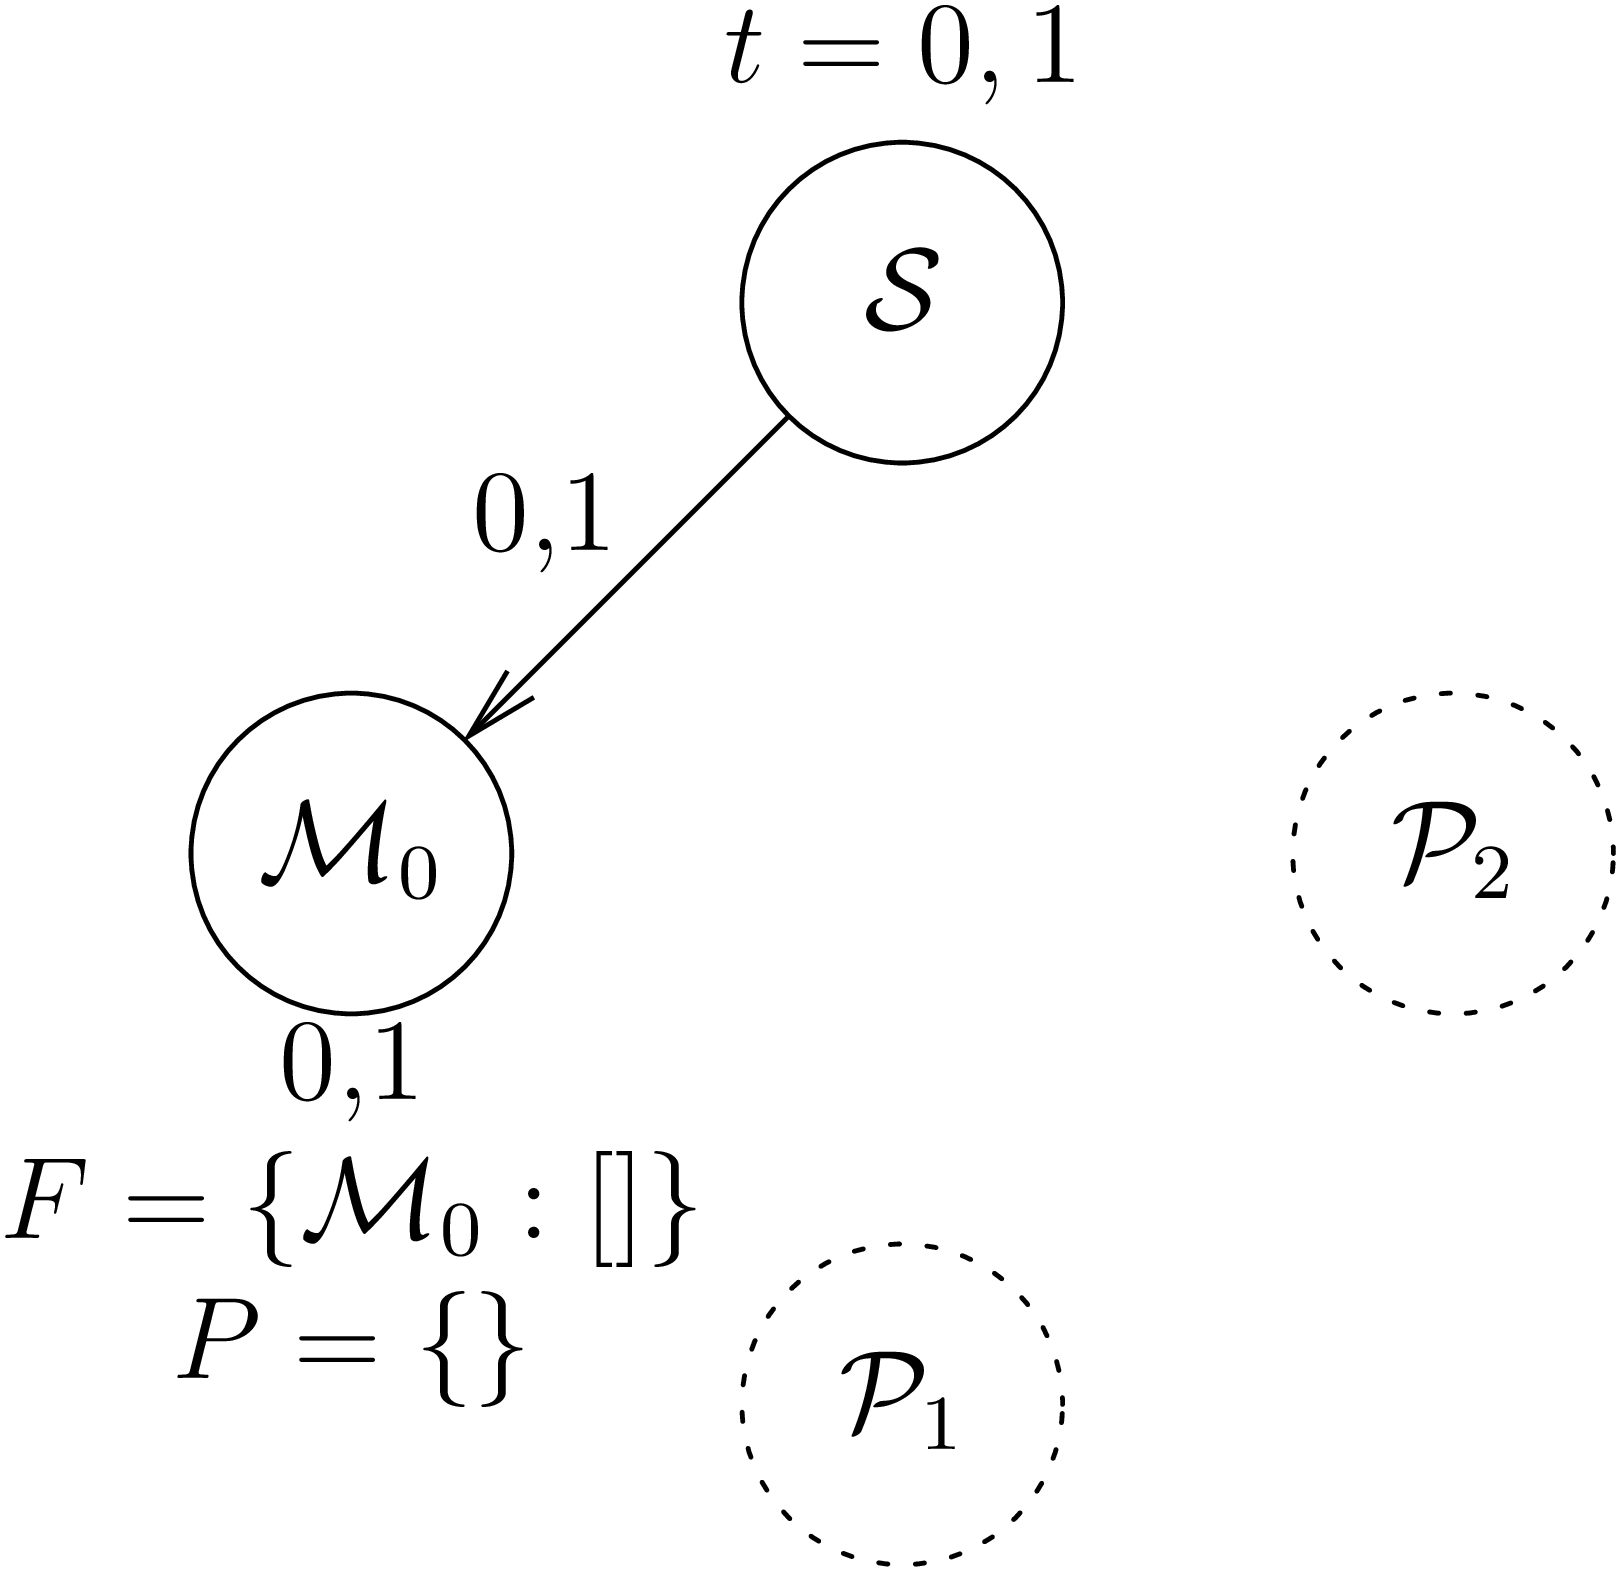
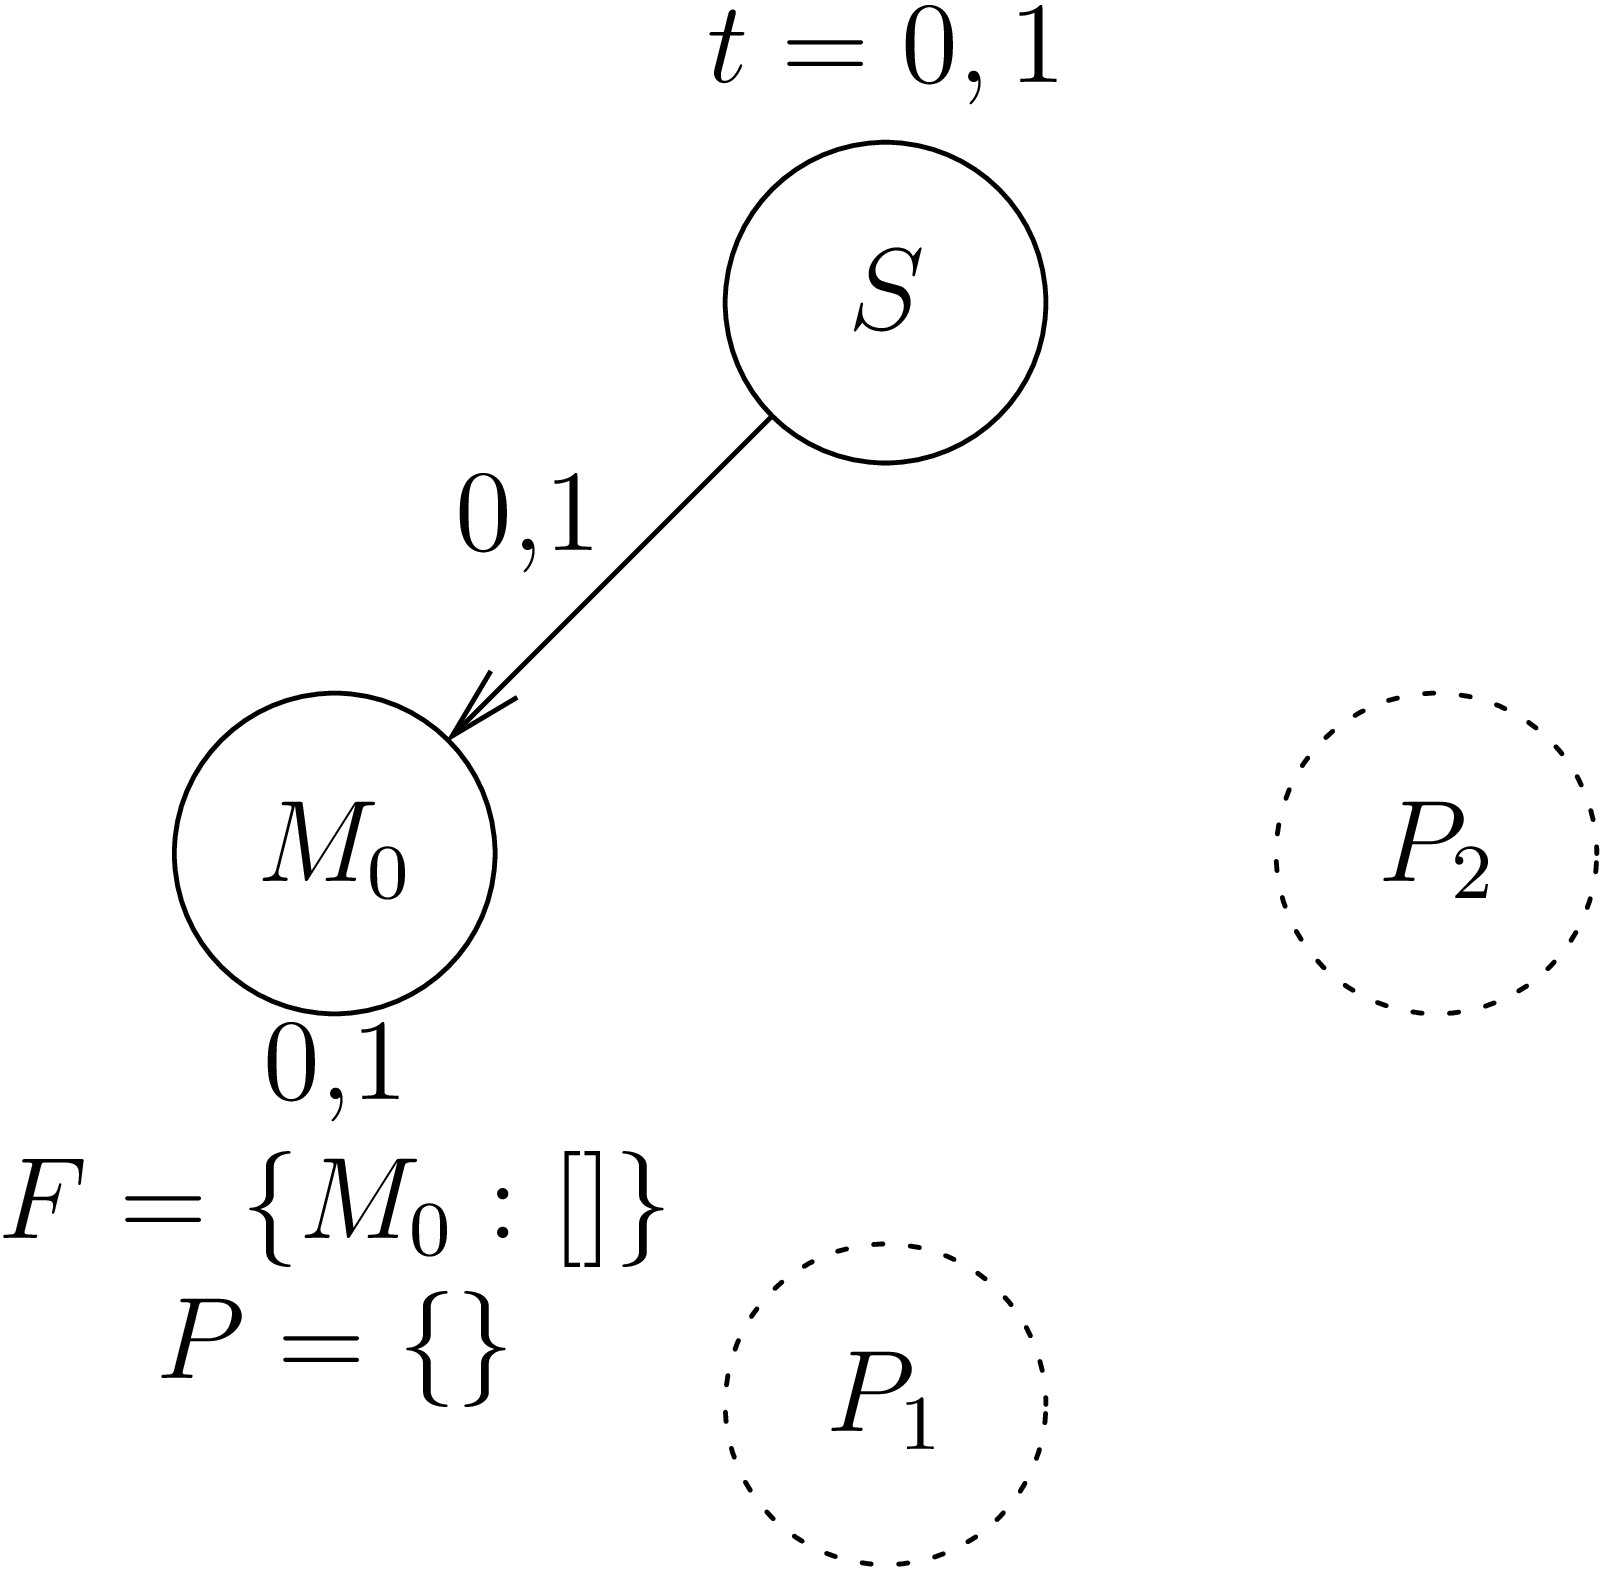
.

diff --git a/index.html b/index.html
@@ -71,14 +71,14 @@ href="#x1-60002.3" id="QQ2-1-9">Buﬀering chunks</a></span>
 <br />    <span class="subsectionToc" >2.4 <a 
 href="#x1-70002.4" id="QQ2-1-10">Chunk ﬂooding</a></span>
 <br />    <span class="subsectionToc" >2.5 <a 
-href="#x1-80002.5" id="QQ2-1-12">Leaving a team</a></span>
+href="#x1-80002.5" id="QQ2-1-13">Leaving a team</a></span>
 <br />    <span class="subsectionToc" >2.6 <a 
-href="#x1-90002.6" id="QQ2-1-13">Free-riding control at splitters</a></span>
+href="#x1-90002.6" id="QQ2-1-14">Free-riding control at splitters</a></span>
                                                                   
 
                                                                   
 <br />   <span class="sectionToc" >3 <a 
-href="#x1-100003" id="QQ2-1-14">FCS (Free-riding Control Set)</a></span>
+href="#x1-100003" id="QQ2-1-15">FCS (Free-riding Control Set)</a></span>
    </div>
 <!--l. 27--><p class="noindent" >
 </p>
@@ -829,46 +829,246 @@ scheduler selects a diﬀerent neighbor for each new received chunk.
                                                                   
 
                                                                   
- <div style="text-align:center;"> <img width=400 src="graphics/team_0.png" /> </div> 
+ <div style="text-align:center;"> <img width=250 src="graphics/team_0.png" /> </div> 
 <br />  <div class="caption" 
 ><span class="id">Figure 3:    </span><span  
 class="content">A    team    has    been    created    with    a    single    monitor
-<!--l. 58--><math 
+<!--l. 61--><math 
  xmlns="http://www.w3.org/1998/Math/MathML"  
 display="inline" ><msub><mrow 
 ><mi 
 >M</mi></mrow><mrow 
 ><mn>0</mn></mrow></msub 
 ></math>
-(<!--l. 58--><math 
+(<!--l. 61--><math 
  xmlns="http://www.w3.org/1998/Math/MathML"  
 display="inline" ><mrow ><mo 
 class="MathClass-open">[</mo><mrow><mi mathvariant="monospace">hello</mi></mrow><mo 
 class="MathClass-close">]</mo></mrow></math>
-messages       are       not       shown.       Chunks       with       numbers       0
-and       1       have       been       transmitted       from       the       splitter
-<!--l. 58--><math 
+messages   are   not   shown).   Chunks   with   numbers   0   and   1   (the   time
+<!--l. 61--><math 
+ xmlns="http://www.w3.org/1998/Math/MathML"  
+display="inline" ><mi 
+>t</mi></math>
+is   measured   in   chunks-time)   have   been   transmitted   from   the   splitter
+<!--l. 61--><math 
  xmlns="http://www.w3.org/1998/Math/MathML"  
 display="inline" ><mi 
 >S</mi></math>
-to <!--l. 58--><math 
+to <!--l. 61--><math 
  xmlns="http://www.w3.org/1998/Math/MathML"  
 display="inline" ><msub><mrow 
 ><mi 
 >M</mi></mrow><mrow 
 ><mn>0</mn></mrow></msub 
 ></math>.
-</span></div><!--tex4ht:label?: x1-70013 -->
+<!--l. 61--><math 
+ xmlns="http://www.w3.org/1998/Math/MathML"  
+display="inline" ><mi 
+>F</mi></math>
+and <!--l. 61--><math 
+ xmlns="http://www.w3.org/1998/Math/MathML"  
+display="inline" ><mi 
+>P</mi></math>
+represents the <!--l. 61--><math 
+ xmlns="http://www.w3.org/1998/Math/MathML"  
+display="inline" ><mstyle 
+class="text"><mtext  >forward</mtext></mstyle><mrow ><mo 
+class="MathClass-open">[</mo><mrow></mrow><mo 
+class="MathClass-close">]</mo></mrow></math>
+and the <!--l. 61--><math 
+ xmlns="http://www.w3.org/1998/Math/MathML"  
+display="inline" ><mstyle 
+class="text"><mtext  >pending</mtext></mstyle><mrow ><mo 
+class="MathClass-open">[</mo><mrow></mrow><mo 
+class="MathClass-close">]</mo></mrow></math>
+structures, respectively. The chunks stored in the buﬀer is shown under the
+entity.</span></div><!--tex4ht:label?: x1-70013 -->
                                                                   
 
                                                                   
    </div><hr class="endfloat" />
-<!--l. 61--><p class="indent" >   An example of the ﬂooding with congestion control algorithm has been show in
+                                                                  
+
+                                                                  
+<!--l. 65--><p class="indent" >   <a 
+ id="x1-70024"></a></p><hr class="float" /><div class="float" 
+>
+                                                                  
+
+                                                                  
+ <div style="text-align:center;"> <img width=250 src="graphics/team_1.png" /> </div> 
+<br /> <div class="caption" 
+><span class="id">Figure 4: </span><span  
+class="content">Peer <!--l. 76--><math 
+ xmlns="http://www.w3.org/1998/Math/MathML"  
+display="inline" ><msub><mrow 
+><mi 
+>P</mi></mrow><mrow 
+><mn>1</mn></mrow></msub 
+></math>
+joins the team (the <!--l. 76--><math 
+ xmlns="http://www.w3.org/1998/Math/MathML"  
+display="inline" ><mrow ><mo 
+class="MathClass-open">[</mo><mrow><mi mathvariant="monospace">hello</mi></mrow><mo 
+class="MathClass-close">]</mo></mrow></math>’s
+are not shown). In <!--l. 76--><math 
+ xmlns="http://www.w3.org/1998/Math/MathML"  
+display="inline" ><msub><mrow 
+><mi 
+>M</mi></mrow><mrow 
+><mn>0</mn></mrow></msub 
+></math>,
+<!--l. 76--><math 
+ xmlns="http://www.w3.org/1998/Math/MathML"  
+display="inline" ><mi 
+>F</mi> <mo 
+class="MathClass-rel">=</mo> <mrow ><mo 
+class="MathClass-open">{</mo><mrow><msub><mrow 
+><mi 
+>M</mi></mrow><mrow 
+><mn>0</mn></mrow></msub 
+> <mo 
+class="MathClass-punc">:</mo> <mrow ><mo 
+class="MathClass-open">[</mo><mrow><msub><mrow 
+><mi 
+>P</mi></mrow><mrow 
+><mn>1</mn></mrow></msub 
+></mrow><mo 
+class="MathClass-close">]</mo></mrow></mrow><mo 
+class="MathClass-close">}</mo></mrow></math>
+because when <!--l. 76--><math 
+ xmlns="http://www.w3.org/1998/Math/MathML"  
+display="inline" ><msub><mrow 
+><mi 
+>M</mi></mrow><mrow 
+><mn>0</mn></mrow></msub 
+></math>
+receives the <!--l. 76--><math 
+ xmlns="http://www.w3.org/1998/Math/MathML"  
+display="inline" ><mrow ><mo 
+class="MathClass-open">[</mo><mrow><mi mathvariant="monospace">hello</mi></mrow><mo 
+class="MathClass-close">]</mo></mrow></math>
+from <!--l. 76--><math 
+ xmlns="http://www.w3.org/1998/Math/MathML"  
+display="inline" ><msub><mrow 
+><mi 
+>P</mi></mrow><mrow 
+><mn>1</mn></mrow></msub 
+></math>,
+<!--l. 76--><math 
+ xmlns="http://www.w3.org/1998/Math/MathML"  
+display="inline" ><msub><mrow 
+><mi 
+>M</mi></mrow><mrow 
+><mn>0</mn></mrow></msub 
+></math>
+is      the      origin      peer      for      all      chunks      received      from
+<!--l. 76--><math 
+ xmlns="http://www.w3.org/1998/Math/MathML"  
+display="inline" ><mi 
+>S</mi></math>
+and <!--l. 76--><math 
+ xmlns="http://www.w3.org/1998/Math/MathML"  
+display="inline" ><msub><mrow 
+><mi 
+>P</mi></mrow><mrow 
+><mn>1</mn></mrow></msub 
+></math>
+is   its   neighbor.   After   that,   when   the   chunk   number   2   arrives   to
+<!--l. 76--><math 
+ xmlns="http://www.w3.org/1998/Math/MathML"  
+display="inline" ><msub><mrow 
+><mi 
+>M</mi></mrow><mrow 
+><mn>0</mn></mrow></msub 
+></math>
+from <!--l. 76--><math 
+ xmlns="http://www.w3.org/1998/Math/MathML"  
+display="inline" ><mi 
+>S</mi></math>,
+an entry <!--l. 76--><math 
+ xmlns="http://www.w3.org/1998/Math/MathML"  
+display="inline" ><msub><mrow 
+><mi 
+>P</mi></mrow><mrow 
+><mn>1</mn></mrow></msub 
+> <mo 
+class="MathClass-punc">:</mo> <mn>2</mn></math>
+is created in <!--l. 76--><math 
+ xmlns="http://www.w3.org/1998/Math/MathML"  
+display="inline" ><mi 
+>P</mi><mrow ><mo 
+class="MathClass-open">[</mo><mrow></mrow><mo 
+class="MathClass-close">]</mo></mrow></math>
+for  that  chunk,  and  this  entry  is  deleted  when  the  chunk  2  is  sent  to
+<!--l. 76--><math 
+ xmlns="http://www.w3.org/1998/Math/MathML"  
+display="inline" ><msub><mrow 
+><mi 
+>P</mi></mrow><mrow 
+><mn>1</mn></mrow></msub 
+></math>.
+When <!--l. 76--><math 
+ xmlns="http://www.w3.org/1998/Math/MathML"  
+display="inline" ><msub><mrow 
+><mi 
+>P</mi></mrow><mrow 
+><mn>1</mn></mrow></msub 
+></math>
+receives the chunk 2, <!--l. 76--><math 
+ xmlns="http://www.w3.org/1998/Math/MathML"  
+display="inline" ><msub><mrow 
+><mi 
+>P</mi></mrow><mrow 
+><mn>1</mn></mrow></msub 
+></math>
+inserts the entry <!--l. 76--><math 
+ xmlns="http://www.w3.org/1998/Math/MathML"  
+display="inline" ><msub><mrow 
+><mi 
+>P</mi></mrow><mrow 
+><mn>1</mn></mrow></msub 
+> <mo 
+class="MathClass-punc">:</mo> <msub><mrow 
+><mi 
+>M</mi></mrow><mrow 
+><mn>0</mn></mrow></msub 
+></math>
+in its forwarding table because <!--l. 76--><math 
+ xmlns="http://www.w3.org/1998/Math/MathML"  
+display="inline" ><msub><mrow 
+><mi 
+>P</mi></mrow><mrow 
+><mn>1</mn></mrow></msub 
+></math>
+considers to <!--l. 76--><math 
+ xmlns="http://www.w3.org/1998/Math/MathML"  
+display="inline" ><msub><mrow 
+><mi 
+>M</mi></mrow><mrow 
+><mn>0</mn></mrow></msub 
+></math>
+as a neighbor. Notice that <!--l. 76--><math 
+ xmlns="http://www.w3.org/1998/Math/MathML"  
+display="inline" ><msub><mrow 
+><mi 
+>P</mi></mrow><mrow 
+><mn>1</mn></mrow></msub 
+></math>
+does not receive chunks 0 and 1 because these chunks belong to a old section
+of the stream.</span></div><!--tex4ht:label?: x1-70024 -->
+                                                                  
+
+                                                                  
+   </div><hr class="endfloat" />
+<!--l. 79--><p class="indent" >   An example of the ﬂooding with congestion control algorithm has been show in
 the Figs. <a 
 href="#x1-70013">3<!--tex4ht:ref: fig:team_0 --></a>, ..., <span 
-class="ecbx-1000">??</span>.
-</p><!--l. 107--><p class="indent" >   ............
-</p><!--l. 109--><p class="indent" >   in DBS is very simple: if a new chunk is received, peers forward (using the
+class="ecbx-1000">??</span>. Notice that in this example, the debts have not been considered,
+and that all messages are received successfully.
+</p><!--l. 127--><p class="indent" >   ............
+</p><!--l. 129--><p class="indent" >   in DBS is very simple: if a new chunk is received, peers forward (using the
 ﬂooding with prunning algorithm described in Sec <span 
 class="ecbx-1000">??</span>) each received chunk to the
 next peer of their list of peers (following a round-robin pattern).

diff --git a/DBS/chunk_flooding.tex b/DBS/chunk_flooding.tex
@@ -52,14 +52,34 @@ peer select $P_x$. The scheduler selects a different neighbor for each
 new received chunk.
 
 \begin{figure*}
-  \fig{400}{4cm}{team_0} \caption{A team has been created with a
-  single monitor $M_0$ ($[\mathtt{hello}]$ messages are not
-  shown. Chunks with numbers 0 and 1 have been transmitted from the
-  splitter $S$ to $M_0$. \label{fig:team_0}}
+  \fig{250}{2.5cm}{team_0} \caption{A team has been created with a
+    single monitor $M_0$ ($[\mathtt{hello}]$ messages are not
+    shown). Chunks with numbers 0 and 1 (the time $t$ is measured in
+    chunks-time) have been transmitted from the splitter $S$ to
+    $M_0$. $F$ and $P$ represents the $\text{forward}[]$ and the
+    $\text{pending}[]$ structures, respectively. The chunks stored in
+    the buffer is shown under the entity.\label{fig:team_0}}
+\end{figure*}
+
+\begin{figure*}
+  \fig{250}{2.5cm}{team_1} \caption{Peer $P_1$ joins the team (the
+    $[\mathtt{hello}]$'s are not shown). In $M_0$, $F=\{M_0:[P_1]\}$
+    because when $M_0$ receives the $[\mathtt{hello}]$ from $P_1$,
+    $M_0$ is the origin peer for all chunks received from $S$ and
+    $P_1$ is its neighbor. After that, when the chunk number 2 arrives
+    to $M_0$ from $S$, an entry $P_1:2$ is created in $P\{\}$ for that
+    chunk, and this entry is deleted when the chunk 2 is sent to
+    $P_1$. When $P_1$ receives the chunk 2, $P_1$ inserts the entry
+    $P_1:M_0$ in its forwarding table because $P_1$ considers to $M_0$
+    as a neighbor. Notice that $P_1$ does not receive chunks 0 and 1
+    because these chunks belong to a old (already played) section of
+    the stream.\label{fig:team_1}}
 \end{figure*}
 
 An example of the flooding with congestion control algorithm has been
-show in the Figs.~\ref{fig:team_0}, ..., \ref{fig:team_13}.
+show in the Figs.~\ref{fig:team_0}, ..., \ref{fig:team_13}. Notice
+that in this example, the debts have not been considered, and that all
+messages are received successfully.
 
 \begin{comment}
 In each round, peers check if a chunk have been received from the rest
